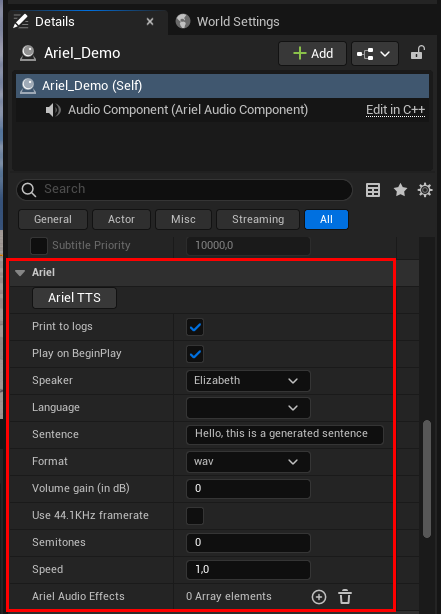
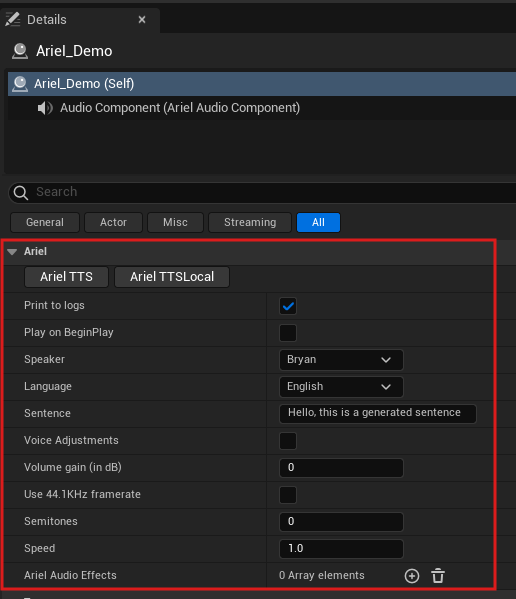
added customer docs

diff --git a/README.md b/README.md
@@ -13,17 +13,18 @@
     [Installation](/doc/Setup.md#installation)<br/>
 
 ### [Quickstart](/doc/Quickstart.md)
-    [🎬 Editor pre-generation](/doc/Quickstart.md#-editor-pre-generation)<br/>
-    [🎤 Runtime generation](/doc/Quickstart.md#-runtime-generation)<br/>
+
+[🎬 Editor pre-generation](/doc/Quickstart.md#-editor-pre-generation)<br/>
+[🎤 Runtime generation](/doc/Quickstart.md#-runtime-generation)<br/>
 
 ### [Features](/doc/Features.md)
-    [🎚 Audio effects](/doc/Features.md#Audio%20effects)<br/>
-    [📝 Tags](/doc/Features.md#Tags)<br/>
+[🎚 Audio effects](/doc/Features.md#Audio%20effects)<br/>
+[📝 Tags](/doc/Features.md#Tags)<br/>
 
 ### [API Reference](/doc/API.md)
-    [Ariel Text-To-Speech](/doc/API.md#ariel-text-to-speech)<br/>
-    [On Ariel Response](/doc/API.md#on-ariel-response)<br/>
-    [Audio WAV bytes to SoundWave](/doc/API.md#audio-wav-bytes-to-soundwave)<br/>
+[Ariel Text-To-Speech](/doc/API.md#ariel-text-to-speech)<br/>
+[On Ariel Response](/doc/API.md#on-ariel-response)<br/>
+[Audio WAV bytes to SoundWave](/doc/API.md#audio-wav-bytes-to-soundwave)<br/>
 ####     [Utilities](/doc/API.md#utilities-1)
         [Get available Speakers](/doc/API.md#get-available-speakers-pure) <b style="color:red">\*</b> <br/>
         [Get available Speakers (filtered)](/doc/API.md#get-available-speakers-filtered-pure) <b style="color: red">\*</b><br/>
@@ -49,93 +50,16 @@ If you have any question, do not hesitate to contact us through our [Discord ser
 
 ## Speakers
 
+> The available speakers depend on the API Key provided to you. The following list is the default list of speakers available for the plugin. If you have a specific request, please contact us.
+
+> We are providing customized speaker training for your project. If you are interested in a specific speaker or language, please get in touch with us.
+
+Local speakers are available for offline use. Online speakers require an internet connection.
+
 | **Name**      | Type      | Gender            | Language(s) |
 | ------------- | --------- | ----------------- | ------------ |
-| **Sophia**    | *Premium*   | female (child)    | English, Spanish, French, German, Italian, Portuguese, Polish, Turkish, Russian, Dutch, Czech, classic Arabic, Chinese, Japanese, Korean |
-| **Oriane**    | *Premium*   | female            | English, Spanish, French, German, Italian, Portuguese, Polish, Turkish, Russian, Dutch, Czech, classic Arabic, Chinese, Japanese, Korean |
-| **Dulhan**    | *Premium*   | male              | English, Spanish, French, German, Italian, Portuguese, Polish, Turkish, Russian, Dutch, Czech, classic Arabic, Chinese, Japanese, Korean |
-| **Alioth**    | *Premium*   | male              | English, Spanish, French, German, Italian, Portuguese, Polish, Turkish, Russian, Dutch, Czech, classic Arabic, Chinese, Japanese, Korean |
-| **Zenaya**    | *Premium*   | female            | English, Spanish, French, German, Italian, Portuguese, Polish, Turkish, Russian, Dutch, Czech, classic Arabic, Chinese, Japanese, Korean |
-| **Socrates**  | *Premium*   | male              | English, Spanish, French, German, Italian, Portuguese, Polish, Turkish, Russian, Dutch, Czech, classic Arabic, Chinese, Japanese, Korean |
-| **David**     | *Premium*   | male              | English, Spanish, French, German, Italian, Portuguese, Polish, Turkish, Russian, Dutch, Czech, classic Arabic, Chinese, Japanese, Korean |
-| **Tom**       | *Premium*   | male              | English, Spanish, French, German, Italian, Portuguese, Polish, Turkish, Russian, Dutch, Czech, classic Arabic, Chinese, Japanese, Korean |
-| **Baldur**    | *Premium*   | male              | English, Spanish, French, German, Italian, Portuguese, Polish, Turkish, Russian, Dutch, Czech, classic Arabic, Chinese, Japanese, Korean |
-| **Elizabeth** | *Premium*   | female            | English, Spanish, French, German, Italian, Portuguese, Polish, Turkish, Russian, Dutch, Czech, classic Arabic, Chinese, Japanese, Korean |
-| **Elen**      | *Premium*   | female            | English, Spanish, French, German, Italian, Portuguese, Polish, Turkish, Russian, Dutch, Czech, classic Arabic, Chinese, Japanese, Korean |
-| **Riley**     | *Premium*   | neutral           | English, Spanish, French, German, Italian, Portuguese, Polish, Turkish, Russian, Dutch, Czech, classic Arabic, Chinese, Japanese, Korean |
-| **Orc**       | *Premium*   | neutral           | English, Spanish, French, German, Italian, Portuguese, Polish, Turkish, Russian, Dutch, Czech, classic Arabic, Chinese, Japanese, Korean |
-| **Urukhai**   |*Premium*    | neutral           | English, Spanish, French, German, Italian, Portuguese, Polish, Turkish, Russian, Dutch, Czech, classic Arabic, Chinese, Japanese, Korean |
-| **HighElve**  |*Premium*    | female            | English, Spanish, French, German, Italian, Portuguese, Polish, Turkish, Russian, Dutch, Czech, classic Arabic, Chinese, Japanese, Korean |
-| **DarkElve**  |*Premium*    | male              | English, Spanish, French, German, Italian, Portuguese, Polish, Turkish, Russian, Dutch, Czech, classic Arabic, Chinese, Japanese, Korean |
-| **HalfElve**  |*Premium*    | female            | English, Spanish, French, German, Italian, Portuguese, Polish, Turkish, Russian, Dutch, Czech, classic Arabic, Chinese, Japanese, Korean |
-| **WoodElve**  |*Premium*    | female            | English, Spanish, French, German, Italian, Portuguese, Polish, Turkish, Russian, Dutch, Czech, classic Arabic, Chinese, Japanese, Korean |
-| **Dis**       |*Premium*    | female            | English, Spanish, French, German, Italian, Portuguese, Polish, Turkish, Russian, Dutch, Czech, classic Arabic, Chinese, Japanese, Korean |
-| **Dwarf**     |*Premium*    | male              | English, Spanish, French, German, Italian, Portuguese, Polish, Turkish, Russian, Dutch, Czech, classic Arabic, Chinese, Japanese, Korean |
-| **Nordman**   |*Premium*    | male              | English, Spanish, French, German, Italian, Portuguese, Polish, Turkish, Russian, Dutch, Czech, classic Arabic, Chinese, Japanese, Korean |
-| **Duergar**   |*Premium*    | male              | English, Spanish, French, German, Italian, Portuguese, Polish, Turkish, Russian, Dutch, Czech, classic Arabic, Chinese, Japanese, Korean |
-| **Mike**      |*Premium*    | male              | English, Spanish, French, German, Italian, Portuguese, Polish, Turkish, Russian, Dutch, Czech, classic Arabic, Chinese, Japanese, Korean |
-| **Yorgon**    |*Premium*    | male              | English, Spanish, French, German, Italian, Portuguese, Polish, Turkish, Russian, Dutch, Czech, classic Arabic, Chinese, Japanese, Korean |
-| **Xalith**    |*Premium*    | female            | English, Spanish, French, German, Italian, Portuguese, Polish, Turkish, Russian, Dutch, Czech, classic Arabic, Chinese, Japanese, Korean |
-| **Zephyr**    |*Premium*    | neutral           | English, Spanish, French, German, Italian, Portuguese, Polish, Turkish, Russian, Dutch, Czech, classic Arabic, Chinese, Japanese, Korean |
-| **Farah**     |  Standard | female            | classic Arabic |
-| **Daiyu**     |  Standard | female            | Chinese       |
-| **Emma**      |  Standard | female            | danish        |
-| **Oscar**     |  Standard | male              | danish        |
-| **Anke**      |  Standard | female            | Dutch         |
-| **Adriaan**   |  Standard | male              | Dutch         |
-| **Mia**       |  Standard | female            | English       |
-| **Grace**     |  Standard | female            | English       |
-| **Jack**      |  Standard | male              | English       |
-| **Charlotte** |  Standard | female            | English       |
-| **Elijah**    |  Standard | male              | English       |
-| **Advika**    |  Standard | female            | English       |
-| **Onkar**     |  Standard | female            | English       |
-| **Elna**      |  Standard | female            | English       |
-| **Mary**      |  Standard | female (child)    | English       |
-| **Linda**     |  Standard | female            | English       |
-| **Patricia**  |  Standard | female            | English       |
-| **Barbara**   |  Standard | female            | English       |
-| **Susan**     |  Standard | female            | English       |
-| **Paul**      |  Standard | male              | English       |
-| **Michael**   |  Standard | male (child)      | English       |
-| **William**   |  Standard | male (child)      | English       |
-| **Thomas**    |  Standard | male              | English       |
-| **Aeron**     |  Standard | male              | English       |
-| **Capucine**  |  Standard | female            | French        |
-| **Alix**      |  Standard | female            | French        |
-| **Arnaud**    |  Standard | male              | French        |
-| **Stephanie** |  Standard | female            | French        |
-| **Celine**    |  Standard | female            | French        |
-| **Maria**     |  Standard | female            | German        |
-| **Theresa**   |  Standard | female            | German        |
-| **Felix**     |  Standard | male              | German        |
-| **Anna**      |  Standard | female            | Icelandic     |
-| **Sigriour**  |  Standard | male              | Icelandic     |
-| **Gabriella** |  Standard | female            | Italian       |
-| **Lorenzo**   |  Standard | male              | Italian       |
-| **Rika**      |  Standard | female            | Japanese      |
-| **Tanaka**    |  Standard | male              | Japanese      |
-| **Ji**-Ho     |  Standard | female            | Korean        |
-| **Camilla**   |  Standard | female            | Norwegian     |
-| **Katarzyna** |  Standard | female            | Polish        |
-| **Malgorzata** | Standard | female            | Polish        |
-| **Piotr**     |  Standard | male              | Polish        |
-| **Jan**       |  Standard | male              | Polish        |
-| **Tabata**    |  Standard | female            | Portuguese    |
-| **Juliana**   |  Standard | female            | Portuguese    |
-| **Pedro**     |  Standard | male              | Portuguese    |
-| **Pati**      |  Standard | female            | Portuguese    |
-| **Adriano**   |  Standard | male              | Portuguese    |
-| **Alexandra** |  Standard | female            | romanian      |
-| **Inessa**    |  Standard | female            | Russian       |
-| **Viktor**    |  Standard | male              | Russian       |
-| **Francisca** |  Standard | female            | Spanish       |
-| **Margarita** |  Standard | female            | Spanish       |
-| **Mateo**     |  Standard | male              | Spanish       |
-| **Leticia**   |  Standard | female            | Spanish       |
-| **Josefina**  |  Standard | female            | Spanish       |
-| **Rosa**      |  Standard | female            | Spanish       |
-| **Miguel**    |  Standard | male              | Spanish       |
-| **Eva**       |  Standard | female            | swedish       |
-| **Mesut**     |  Standard | female            | Turkish       |
-| **Angharad**  |  Standard | female            | welsh         |
+| **Bryan**    | *Online*   | male   | English, Spanish, French, German, Italian, Portuguese, Polish, Turkish, Russian, Dutch, Czech, classic Arabic, Chinese, Japanese, Korean |
+| **Bryan**    | *Local*   | male   | English |
+| **Abrogail**    | *Online*   | female            | English, Spanish, French, German, Italian, Portuguese, Polish, Turkish, Russian, Dutch, Czech, classic Arabic, Chinese, Japanese, Korean |
+| **Abrogail**    | *Local*   | female            | English|
+

diff --git a/doc/API.md b/doc/API.md
@@ -8,25 +8,30 @@
 [On Ariel Response](#on-ariel-response)<br/>
 [Audio WAV bytes to SoundWave](#audio-wav-bytes-to-soundwave)<br/>
 #### [Utilities](#utilities-1)
-    [Get available Speakers](#get-available-speakers-pure) <b style="color:red">\*</b> <br/>
-    [Get available Speakers (filtered)](#get-available-speakers-filtered-pure) <b style="color: red">\*</b><br/>
+    [Get available Speakers](#get-available-speakers-pure)<br/>
+    [On Speakers Received](#on-speakers-received)<br/>
     [Scheme filename](#scheme-filename)<br/>
 #### [Editor only](#editor-only-1)
     [Show folder selection dialog](#show-folder-selection-dialog)<br/>
     [Save bytes to file](#save-bytes-to-file)<br/>
-    [Get Documentation URL](#get-documentation-url) <b style="color: red">\*</b><br/>
+    [Get Documentation URL](#get-documentation-url)<br/>
 #### [Structures](#structures-1)
     [Ariel Speaker](#ariel-speaker-farielspeaker)<br/>
 #### [Enumerations](#enumerations-1)
-    [Ariel Audio Format](#ariel-audio-format-earielaudioformat)<br/>
-    [Ariel Audio Effect](#ariel-audio-effect-earielaudioeffect)<br/>
+    [Ariel Audio Format](#ariel-audio-format-earielaudioformat)<br/> 
+    [Ariel Audio Effect](#ariel-audio-effect-earielaudioeffect)<br/> 
+#### [Startup Functions](#startup-functions-1) 
+    [Start Ariel Subsystem](#start-ariel-subsystem)<br/> 
+    [On Ariel Subsystem Started](#foarielinitialized)<br/>
+    [Stop Ariel Subsystem](#stop-ariel-subsystem)<br/>
 
-*<b style="color:red">\*</b>Pure functions*
 
 <!------------------------------------------------------------------------------------------------------------------------------->
 <br/>
 
 ## Ariel Text-To-Speech
+
+> The following is all equivalent to the [Ariel Local TTS](/doc/Quickstart.md#-runtime-generation) feature and will behave the same way and therefore not described in detail here.
 
 C++ Function: `UArielBPLibrary::ArielTTS`
 
@@ -50,6 +55,8 @@ This node calls the Ariel API using **HTTPS** request with all defined parameter
 | Audio Effects     | const TArray\<[EArielAudioEffect](#ariel-audio-effect-earielaudioeffect)\>& | *empty array* (no effects) | List of all audio effects who will be applied to the audio.<br/> See [🎚 Audio effects](/doc/Features.md#-audio-effects). |
 | Logs              | const bool     | `false`           | Indicate if logs should be printed to the console. |
 | On Response       | [FOnArielResponse](#on-ariel-response) | -               | The event called when a response was received. |
+
+> The local TTS version currently does not support the use of Audio Effects. Those will not have any effect on the generated audio. They will be added in a future release.
 
 <!------------------------------------------------------------------------------------------------------------------------------->
 <br/>
@@ -111,7 +118,7 @@ The following nodes have been created to help the usage of the Ariel plugin, but
 <!------------------------------------------------------------------------------------------------------------------------------->
 <br/>
 
-## Get available Speakers *(pure)*
+## Get available Speakers
 
 C++ Function: `UArielBPLibrary::GetSpeakersFromSettings`
 
@@ -123,31 +130,26 @@ Get the available speakers list from the project settings.
 
 | Name         | Type                    | Description |
 | ------------ | ----------------------- | ----------- |
-| Return value | TArray\<[FArielSpeaker](#ariel-speaker-farielspeaker)\> | The list of available speakers. This is the same list as the documentation [speaker list](/README.md#speakers). |
+TArray\<[FArielSpeaker](#ariel-speaker-farielspeaker)\> | The list of available speakers. 
+| Logs          | const bool            | `true`         | Indicate if logs should be printed to the console. |
+| On Response       | [FOnSpeakersAvailable](#on-speakers-received) | -               | The event called when a response was received. |
 
 <!------------------------------------------------------------------------------------------------------------------------------->
 <br/>
 
-## Get available Speakers (filtered) *(pure)*
+## On Speakers Received
 
-C++ Function: `UArielBPLibrary::GetSpeakersFiltered`
+C++ Declaration: `FOnSpeakersAvailable`
 
-Get available Ariel speakers that correspond to the desired gender and language.
+Use the nodes *Add Custom Event...* or *Create Event* to bind the [Available Speakers](#get-available-speakers) delegate to a Blueprint Event or function.
 
-![Get available Speakers filtered node](/res/get_available_speakers_filtered.png)
-
-### Parameters
-
-| Name        | Type                 | Default value  | Description |
-| ----------- | -------------------- | -------------- | ----------- |
-| Language    | const FString&       | *empty string* | The desired language. Leave empty to allow all languages. |
-| Gender      | const FString&       | *empty string* | The desired gender. Leave empty to allow all genders. |
 
 ### Return values
 
-| Name         | Type                    | Description |
-| ------------ | ----------------------- | ----------- |
-| Return value | TArray\<[FArielSpeaker](#ariel-speaker-farielspeaker)\> | The filtered list of available speakers. |
+| Name              | Type                  | Description |
+| ----------------- | --------------------- | ----------- |
+| Speakers           | TArray\<[FArielSpeaker](#ariel-speaker-farielspeaker)\> | The list of available speakers. |
+
 
 <!------------------------------------------------------------------------------------------------------------------------------->
 <br/>
@@ -268,7 +270,7 @@ Get the current Ariel plugin documentation URL.
 
 ---
 
-<br/><br/>
+<br/>
 
 # Structures
 
@@ -281,7 +283,7 @@ C++ and Blueprint structs defined by the Ariel plugin.
 
 C++ Declaration: `FArielSpeaker`
 
-The JSON structure of a speaker returned by the Ariel API. You can find the speakers list with all details [here](/README.md#speakers) or in Unreal [Project settings](/doc/Others.md#plugin-project-settings).
+The JSON structure of a speaker returned by the Ariel API. You can find the speakers list with all details [here](/README.md#speakers). The Speaker list can vary depending on your API key inside [Project settings](/doc/Others.md#plugin-project-settings) and the local models inside the [models folder](/doc/Others.md#adding-local-models).
 
 ![Ariel speaker break node](/res/ariel_speaker.png)
 
@@ -291,8 +293,9 @@ The JSON structure of a speaker returned by the Ariel API. You can find the spea
 | --------- | ----------------- | ---------------- | --------- | ----------- |
 | ID        | int               | Visible Anywhere | Read-only | The Ariel Speaker identifier. |
 | Name      | FString           | Visible Anywhere | Read-only | The Ariel Speaker name. |
-| Gender    | Gender            | Visible Anywhere | Read-only | The Ariel Speaker gender. |
+| Gender    | Gender            | Visible Anywhere | Read-only | The Ariel Speaker gender. Gender is currently not in use. |
 | Languages | TArray\<FString\> | Visible Anywhere | Read-only | The Ariel Speaker language(s). |
+| Local Execution | bool | Visible Anywhere | Read-only | If an available speaker can be used for local or remote execution. |
 
 <!------------------------------------------------------------------------------------------------------------------------------->
 <!------------------------------------------------------------------------------------------------------------------------------->
@@ -350,3 +353,51 @@ This enum contains all supported ariel audio file formats.
 | ---- | ----------- |
 | WAV  | PCM-16 RIFF Waveform audio file. |
 | MP3  | MPEG-1/2 audio file. |
+
+
+<!------------------------------------------------------------------------------------------------------------------------------->
+<!------------------------------------------------------------------------------------------------------------------------------->
+<br/>
+
+## Start Ariel Subsystem
+
+C++ Function: `UArielBPLibrary::StartSubsystem`
+
+Starts the background server for the Ariel plugin. This function needs to be called when using the local version of Ariel.
+
+![Start Ariel Subsystem](/res/start_ariel_subsystem.png)
+
+### Return values
+
+| Name         | Type                    | Description |
+| ------------ | ----------------------- | ----------- |
+| On Response       | [FOnArielInitialized](#foarielinitialized) | -               | The event called when a response was received. |
+
+<!------------------------------------------------------------------------------------------------------------------------------->
+<br/>
+
+## FOArielInitialized
+
+C++ Declaration: `FOnArielInitialized`
+
+Use the nodes *Add Custom Event...* or *Create Event* to bind the [Startup of the local Ariel Server](#start-ariel-subsystem) delegate to a Blueprint Event or function.
+
+
+### Return values
+
+| Name              | Type                  | Description |
+| ----------------- | --------------------- | ----------- |
+| Success          | bool                  | Indicate if the local Ariel Server has started successfully |
+
+
+## Stop Ariel Subsystem
+
+C++ Function: `UArielBPLibrary::StopSubsystem`
+
+Stops the background server for the Ariel plugin. This function needs to be called when exiting the game. If this is not called, the server will continue to run in the background.
+
+### Return values
+
+| Name         | Type                    | Description |
+| ------------ | ----------------------- | ----------- |
+| -           | -                       | No return value. |

diff --git a/doc/Quickstart.md b/doc/Quickstart.md
@@ -60,11 +60,22 @@ You can find a **<ins>fully operational</ins> Blueprint Actor** that generate an
 
 → Do not hesitate to look at the Ariel demo Actor Blueprint Event graph to see the nodes used to generate the speech. You can find more information about the nodes on the [API Reference](/doc/API.md), especially the nodes *[Ariel Text-to-Speesh](/doc/API.md#ariel-text-to-speech)*, *[On Ariel Response](/doc/API.md#on-ariel-response)* and *[Audio WAV bytes to SoundWave](/doc/API.md#audio-wav-bytes-to-soundwave)*.
 
+There are 3 entriepoints to the Ariel Demo Actor:
+
+- Begin Play: Initialize the Ariel Demo Actor to start the local Ariel Server in the background and triggers an initial speech generation.
+- Ariel TTS Local: Call the local Ariel API to generate the speech with the demo Actor parameters. You need to make sure that the Local Ariel Server is running in the background (should automatically run after Begin Play).
+- Ariel TTS: Call the online Ariel API to generate the speech with the demo Actor parameters. You need to make sure that the Online Ariel Server is running in the background.
+
 ![Ariel demo event graph](/res/ariel_demo_event_graph.png)
 
 ![Ariel demo blueprint](/res/ariel_demo_blueprint.png)
 
-1. ![blue box](https://placehold.co/10x10/3398ff/3398ff) The node *[Ariel Text-to-Speesh](/doc/API.md#ariel-text-to-speech)* is used to call the Ariel API and generate the speech with the demo Actor parameters.<br/>
-2. ![red box](https://placehold.co/10x10/ff6666/ff6666) The event *[On Ariel Response](/doc/API.md#on-ariel-response)* is called when the Ariel API responded. We ensure that the request was successful, otherwise the error is printed in the logs.<br/>
-3. ![green box](https://placehold.co/10x10/66ff66/66ff66) The node *[Audio WAV bytes to SoundWave](/doc/API.md#audio-wav-bytes-to-soundwave)* is used to generate a SoundWave Asset from the API response bytes data.<br/>
-4. ![purple box](https://placehold.co/10x10/b266ff/b266ff) The nodes *Set Sound* and *Play* from the Unreal Audio Component are used to play the generated SoundWave Asset.
+1. ![blue box](https://placehold.co/10x10/3398ff/3398ff) The node *[Remote TTS](/doc/API.md#ariel-text-to-speech)* is used to call the Ariel API and generate the speech with the demo Actor parameters.<br/>
+2. ![red box](https://placehold.co/10x10/ff6666/ff6666) The event *[Local TTS](/doc/API.md#on-ariel-response)* is used to call the local Ariel API and generate the speech with the demo Actor parameters.<br/>
+
+
+![Ariel demo blueprint](/res/ariel_demo_blueprint_finished.png)
+
+
+3. ![purple box](https://placehold.co/10x10/b266ff/b266ff) The node *[Play Audio](/doc/API.md#audio-wav-bytes-to-soundwave)* is used to generate a SoundWave Asset from the API response bytes data. It also includes the nodes *Set Sound* and *Play* from the Unreal Audio Component that are used to play the generated SoundWave Asset.<br/>
+4. ![green box](https://placehold.co/10x10/66ff66/66ff66) This is used to set the Variable InProgress to false when the audio is finished generating. This is used to prevent the actor from generating a new audio while the previous one is still generating.<br/>

diff --git a/doc/Setup.md b/doc/Setup.md
@@ -6,9 +6,6 @@
 
 [Prerequisites](#prerequisites)<br/>
 [Installation](#installation)<br/>
-    *[From a ZIP archive (source code)](#from-a-zip-archive-source-code)*<br/>
-    *[From the Marketplace](#from-the-marketplace)*<br/>
-
 
 ## Prerequisites
 
@@ -43,25 +40,4 @@ There are two different versions of the plugin:
 > You **must** have the C++ build tools for Unreal Engine to be able to compile the plugin. Please read [prerequisites](./Setup.md#prerequisites) for more details.
 
 4. Navigate to **Edit** > **Plugins** > Search **"Ariel"** and enable the Ariel plugin (you may need to restart the Engine):
-![enable plugin](/res/enable_plugin.png)
-
-
-
-### From the Marketplace
-
-0. Download and open the Epic Game's launcher: https://store.epicgames.com/download<br/>
-Then, purchase the Ariel plugin from the Marketplace.
-
-1. Login to your account:<br/>
-![epic login form](/res/epic_sign_in.png)
-
-2. Go to **Library** > **Vault** (at the end of the page) > **"Ariel Voice Generation"** and click on *Install to engine*:<br/>
-![epic plugin installation](/res/install_plugin_library.png)<br/>
-
-3. Select your Unreal Engine version and click *Install*. Ariel v1.2.1 is compatible with UE 5.2, UE 5.3 and UE 5.4:<br/>
-![select engine version](/res/select_plugin_version.png)
-
-4. (Re)open an existing project or create a new one with the same Unreal Engine version. 
-
-5. Navigate to **Edit** > **Plugins** > Search **"Ariel"** and enable the Ariel plugin (you may need to restart the Engine):
 ![enable plugin](/res/enable_plugin.png)

diff --git a/doc/Others.md b/doc/Others.md
@@ -8,6 +8,7 @@
 [Package a project](#package-a-project)<br/>
     *[No runtime generated sentences](#no-runtime-generated-sentences)*<br/>
     *[Blueprint only projects](#blueprint-only-projects)*<br/>
+[Adding local models](#adding-local-models)<br/>
 
 ## Plugin project settings
 
@@ -72,3 +73,12 @@ This is a known bug since UE4.24. A temporary workaround is to add a 'dummy' C++
 > [!WARNING]
 > If an error message occurs, ensure that the C++ Build tools are correctly installed (see [prerequisites](/doc/Setup.md#prerequisites)) and that the code can compile (if you didn't change the C++ file yourself it should be compilable by default).
 
+## Adding local models
+
+By default there will be 2 local speakers available inside the plugin. If you want to add more local speakers, you can do so by adding the speaker files to the plugin content folder. The speaker files are located in the plugin content folder under `Ariel/Local/models`.
+
+You need to make sure that always an {speaker_name}.onnx and {speaker_name}.onnx.json file are present in the same folder. The {speaker_name}.onnx file is the model file and the {speaker_name}.onnx.json file is the configuration file. 
+
+We can finetune models on your behalf, please contact us for more information.
+
+![Local models folder structure](/res/adding_local_speakers.png)
